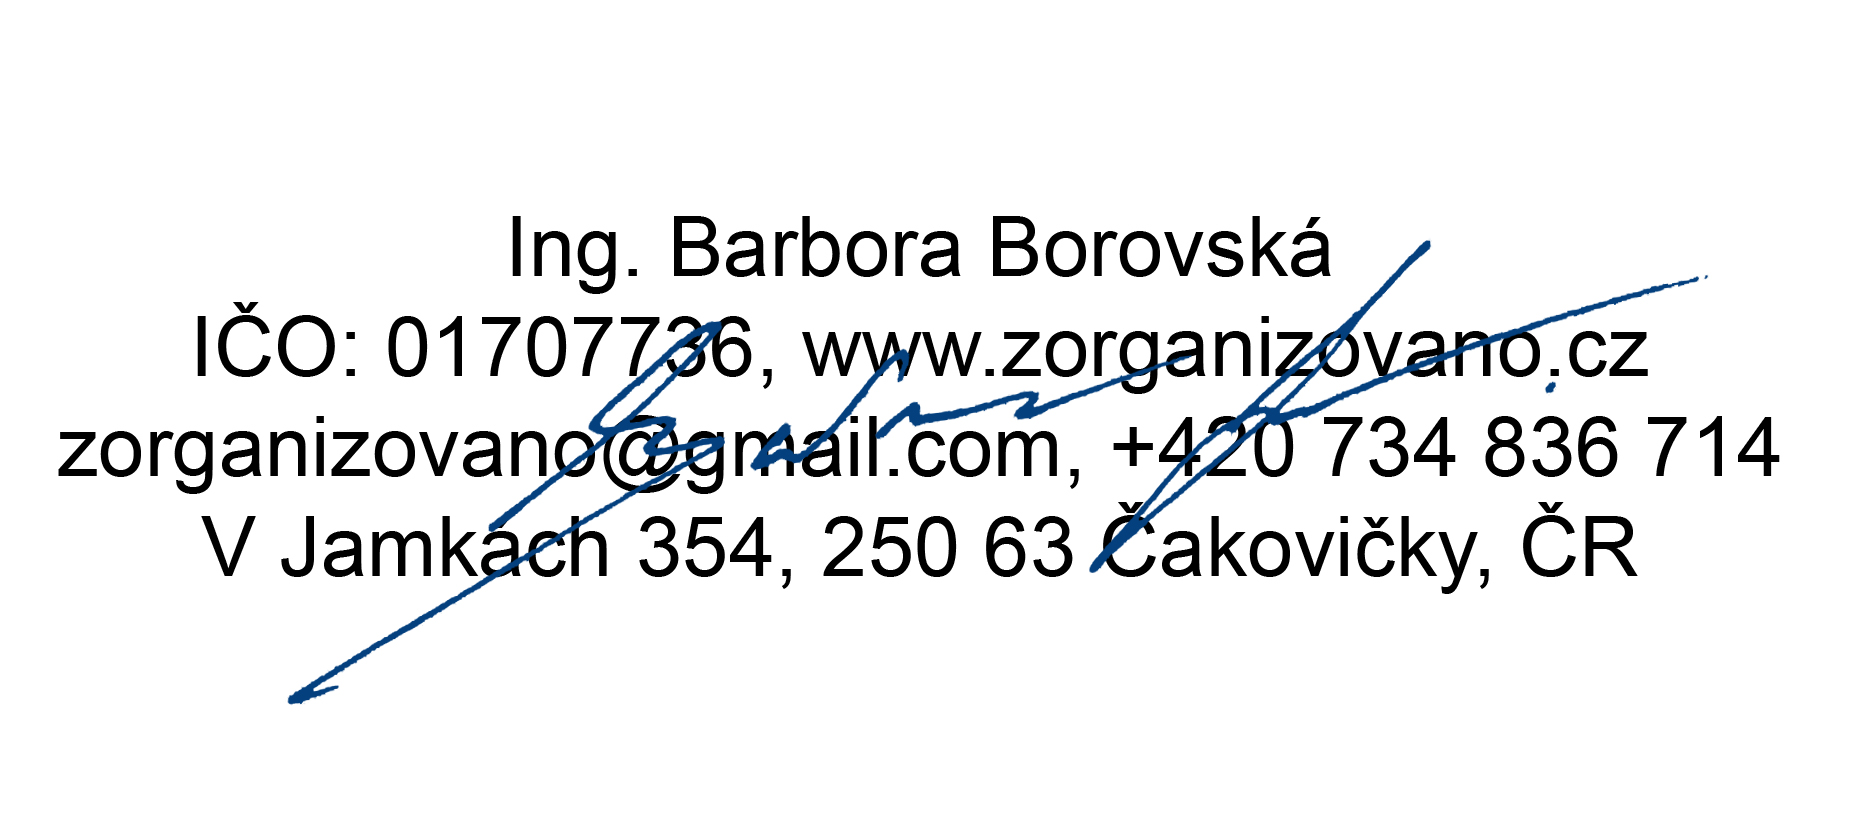
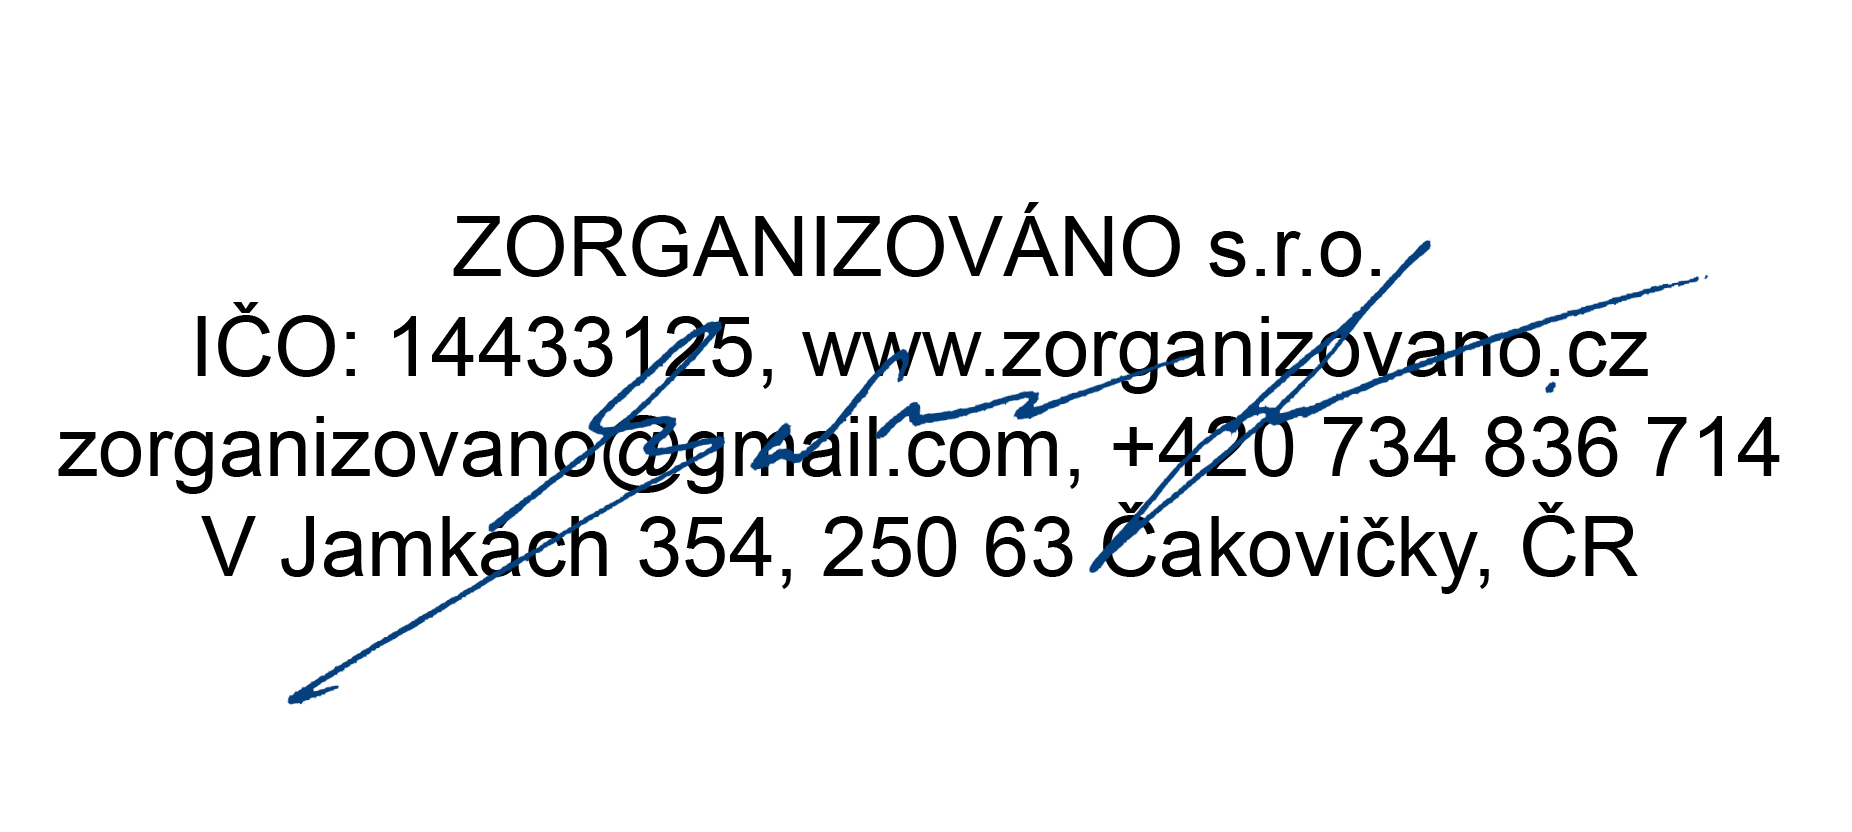
s.r.o migration - texts

Changed region(s): [[0.1847, 0.25, 0.7387, 0.4688]]

diff --git a/frontend/src/pages/public/eshop/terms/Terms.jsx b/frontend/src/pages/public/eshop/terms/Terms.jsx
@@ -64,14 +64,16 @@ const Terms = ({ classes }) => (
     <Paper className={classes.root}>
         <Helmet>
             <meta name="description" content='Tyto obchodní podmínky platí pro nákup v internetovém obchodě www.zorganizovano.cz, jehož provozovatelem je
-                Barbora Borovská, V Jamkách 354, Čakovičky 250 63, IČO: 01707736. Provozovatel není plátce DPH.' />
+                ZORGANIZOVÁNO s.r.o., IČ: 14433125, sídlem Čakovičky, V Jamkách 354, PSČ 250 63, zapsaná v obchodním rejstříku vedeném Městským soudem v Praze, oddíl C, vložka 365600.
+                Provozovatel není plátce DPH.' />
         </Helmet>
         <Typography variant="h1">Obchodní podmínky</Typography>
         <Typography className={classes.font} component="div">
             <p>
                 Tyto obchodní podmínky platí pro nákup v internetovém obchodě
-                www.zorganizovano.cz, jehož provozovatelem je<br /> <strong>Barbora Borovská, V Jamkách
-                354, Čakovičky 250 63, IČO: 01707736</strong>.<br />
+                www.zorganizovano.cz, jehož provozovatelem je<br /> <strong>ZORGANIZOVÁNO s.r.o., IČ: 14433125, 
+                sídlem Čakovičky, V Jamkách 354, PSČ 250 63, zapsaná v obchodním rejstříku vedeném Městským soudem v Praze, 
+                oddíl C, vložka 365600</strong>.<br />
                 <strong>Provozovatel není plátce DPH.</strong><br />
                 Obchodní podmínky určují a upřesňují práva a povinnosti prodávajícího a jeho zákazníků (dále jen kupujících).
             </p>
@@ -110,7 +112,8 @@ const Terms = ({ classes }) => (
                         </li>
                         <li>
                             Prodávajícím a provozovatelem internetového obchodu www.zorganizovano.cz
-                            je Barbora Borovská, V Jamkách 354, Čakovičky 250 63, IČO: 01707736.
+                            je ZORGANIZOVÁNO s.r.o., IČ: 14433125, sídlem Čakovičky, V Jamkách 354, PSČ 250 63,
+                            zapsaná v obchodním rejstříku vedeném Městským soudem v Praze, oddíl C, vložka 365600.
                         </li>
                         <li>
                             Ustanovení odchylná od obchodních podmínek je možné sjednat v kupní
@@ -209,8 +212,8 @@ const Terms = ({ classes }) => (
                         <li>
                             Cenu zboží a případné náklady spojené s dodáním zboží dle kupní smlouvy
                             může kupující uhradit prodávajícímu bezhotovostně převodem na účet prodávajícího
-                            č.1957478013/3030, Iban CZ93 3030 0000 0019 5747 8013, BIC AIRACZPP vedený
-                            u společnosti Air Bank a.s. (dále jen „účet prodávajícího“).
+                            č.2902178632/2010, IBAN CZ57 2010 0000 0029 0217 8632, BIC FIOBCZPPXXX vedený
+                            u společnosti Fio banka, a.s. (dále jen „účet prodávajícího“).
                         </li>
                         <li>
                             Společně s kupní cenou je kupující povinen zaplatit prodávajícímu také náklady

diff --git a/frontend/src/pages/public/eshop/reclamation-terms/Terms.jsx b/frontend/src/pages/public/eshop/reclamation-terms/Terms.jsx
@@ -67,7 +67,7 @@ const Terms = ({ classes }) => (
                 <li>zboží není schopné dalšího prodeje</li>
             </ul>
             <p>
-                Zboží je nutné zaslat na adresu <strong>Barbora Borovská, V Jamkách 354, Čakovičky
+                Zboží je nutné zaslat na adresu <strong>ZORGANIZOVÁNO s.r.o. V Jamkách 354, Čakovičky
                 250 63</strong>, ze které Vám bylo původně odesláno.
             </p>
             <p>
@@ -102,7 +102,7 @@ const Terms = ({ classes }) => (
                 Kupní smlouvy informovat Prodávajícího formou jednostranného právního jednání
                 (například dopisem zaslaným prostřednictvím provozovatele poštovních služeb nebo
                 e-mailem).<br />
-                Zboží zašlete na adresu <strong>Barbora Borovská, V Jamkách 354, Čakovičky 250 63,</strong>
+                Zboží zašlete na adresu <strong>ZORGANIZOVÁNO s.r.o. V Jamkách 354, Čakovičky 250 63,</strong>
                 ze které Vám bylo původně zboží odesláno.
             </p>
             <p>
@@ -122,7 +122,7 @@ const Terms = ({ classes }) => (
             <p>
                 <span className={classes.h2}>Převzetí zboží:</span>
                 Zboží bez zbytečného odkladu, nejpozději do 14 dnů ode dne, kdy došlo k
-                odstoupení od Smlouvy, zašlete zpět na adresu Barbora Borovská, V Jamkách 354,
+                odstoupení od Smlouvy, zašlete zpět na adresu ZORGANIZOVÁNO s.r.o. V Jamkách 354,
                 Čakovičky 250 63. Lhůta se považuje za zachovanou, pokud odešlete zboží zpět
                 před uplynutím 14 dnů.
             </p>

diff --git a/frontend/src/pages/public/eshop/order-created/components/PaymentInfo.jsx b/frontend/src/pages/public/eshop/order-created/components/PaymentInfo.jsx
@@ -26,11 +26,22 @@ const PaymentInfo = ({ paymentData }) => (
                 <TableCell>{ new Date(paymentData.date).toLocaleDateString() }</TableCell>
             </TableRow>
             <TableRow>
-                <TableCell colSpan={2}>Pouze pro zahraniční platbu použijte následující údaje:</TableCell>
+                <TableCell colSpan={2}>Pro <strong>ZAHRANIČNÍ platbu v CZK</strong> použijte následující údaje:</TableCell>
             </TableRow>
             <TableRow>
                 <TableCell>IBAN:</TableCell>
                 <TableCell>{ paymentData.iban }</TableCell>
+            </TableRow>
+            <TableRow>
+                <TableCell>BIC:</TableCell>
+                <TableCell>{ paymentData.bic }</TableCell>
+            </TableRow>
+            <TableRow>
+                <TableCell colSpan={2}>Pro <strong>ZAHRANIČNÍ platbu v EUR s přepočtem na dnešní kurz ČNB</strong> použijte následující údaje:</TableCell>
+            </TableRow>
+            <TableRow>
+                <TableCell>IBAN:</TableCell>
+                <TableCell>CZ29 2010 0000 0028 0217 8635</TableCell>
             </TableRow>
             <TableRow>
                 <TableCell>BIC:</TableCell>

diff --git a/frontend/src/pages/public/eshop/personal-data-protection-terms/Terms.jsx b/frontend/src/pages/public/eshop/personal-data-protection-terms/Terms.jsx
@@ -29,8 +29,10 @@ const Terms = ({ classes }) => (
         <Typography variant="h1">Podmínky ochrany osobních údajů</Typography>
         <Typography className={classes.font} component="div">
             <p>
-                Barbora Borovská, V Jamkách 354, Čakovičky 250 63<br />
-                IČO: 01707736<br />
+                ZORGANIZOVÁNO s.r.o.,<br />
+                IČ: 14433125,<br />
+                sídlem Čakovičky, V Jamkách 354, PSČ 250 63,<br />
+                zapsaná v obchodním rejstříku vedeném Městským soudem v Praze, oddíl C, vložka 365600<br />
                 e-mail: <ContactEmail /><br /><br />
                 dále jen <strong>„Správce“</strong>
             </p>

diff --git a/backend-parent/backend/src/main/java/cz/zorganizovano/backend/email/builder/OrderCreatedEmailBuilderAbs.java b/backend-parent/backend/src/main/java/cz/zorganizovano/backend/email/builder/OrderCreatedEmailBuilderAbs.java
@@ -77,12 +77,27 @@ public abstract class OrderCreatedEmailBuilderAbs {
                     .append("</td>")
                 .append("</tr>")
                 .append("<tr>")
-                    .append("<th colspan=\"2\" style=\"text-align: left; border : 1px solid #999;\">Pouze pro zahraniční platbu použijte následující údaje:</th>")
+                    .append("<th colspan=\"2\" style=\"text-align: left; border : 1px solid #999;\">Pro <strong>ZAHRANIČNÍ platbu v CZK</strong> použijte následující údaje:</th>")
                 .append("</tr>")
                 .append("<tr>")
                     .append("<th style=\"text-align: left; border : 1px solid #999;\">IBAN:</th>")
                     .append("<td style=\"text-align: right; border-bottom : 1px solid #999;\" nowrap=\"nowrap\">")
                         .append(paymentInfo.getIban())
+                    .append("</td>")
+                .append("</tr>")
+                .append("<tr>")
+                    .append("<th style=\"text-align: left; border : 1px solid #999;\">BIC:</th>")
+                    .append("<td style=\"text-align: right; border-bottom : 1px solid #999;\" nowrap=\"nowrap\">")
+                        .append(paymentInfo.getBic())
+                    .append("</td>")
+                .append("</tr>")
+                .append("<tr>")
+                    .append("<th colspan=\"2\" style=\"text-align: left; border : 1px solid #999;\">Pro <strong>ZAHRANIČNÍ platbu v EUR s přepočtem na dnešní kurz ČNB</strong> použijte následující údaje:</th>")
+                .append("</tr>")
+                .append("<tr>")
+                    .append("<th style=\"text-align: left; border : 1px solid #999;\">IBAN:</th>")
+                    .append("<td style=\"text-align: right; border-bottom : 1px solid #999;\" nowrap=\"nowrap\">")
+                        .append("CZ29 2010 0000 0028 0217 8635")
                     .append("</td>")
                 .append("</tr>")
                 .append("<tr>")

diff --git a/backend-parent/backend/src/main/java/cz/zorganizovano/backend/payment/PaymentDefaults.java b/backend-parent/backend/src/main/java/cz/zorganizovano/backend/payment/PaymentDefaults.java
@@ -2,10 +2,10 @@ package cz.zorganizovano.backend.payment;
 
 public interface PaymentDefaults {
 
-    String ACCOUNT_NUMBER = "1957478013";
-    String BANK_CODE = "3030";
+    String ACCOUNT_NUMBER = "2902178632";
+    String BANK_CODE = "2010";
     String CURRENCY = "CZK";
-    String IBAN = "CZ93 3030 0000 0019 5747 8013";
-    String BIC = "AIRACZPP";
+    String IBAN = "CZ57 2010 0000 0029 0217 8632";
+    String BIC = "FIOBCZPPXXX";
 
 }
